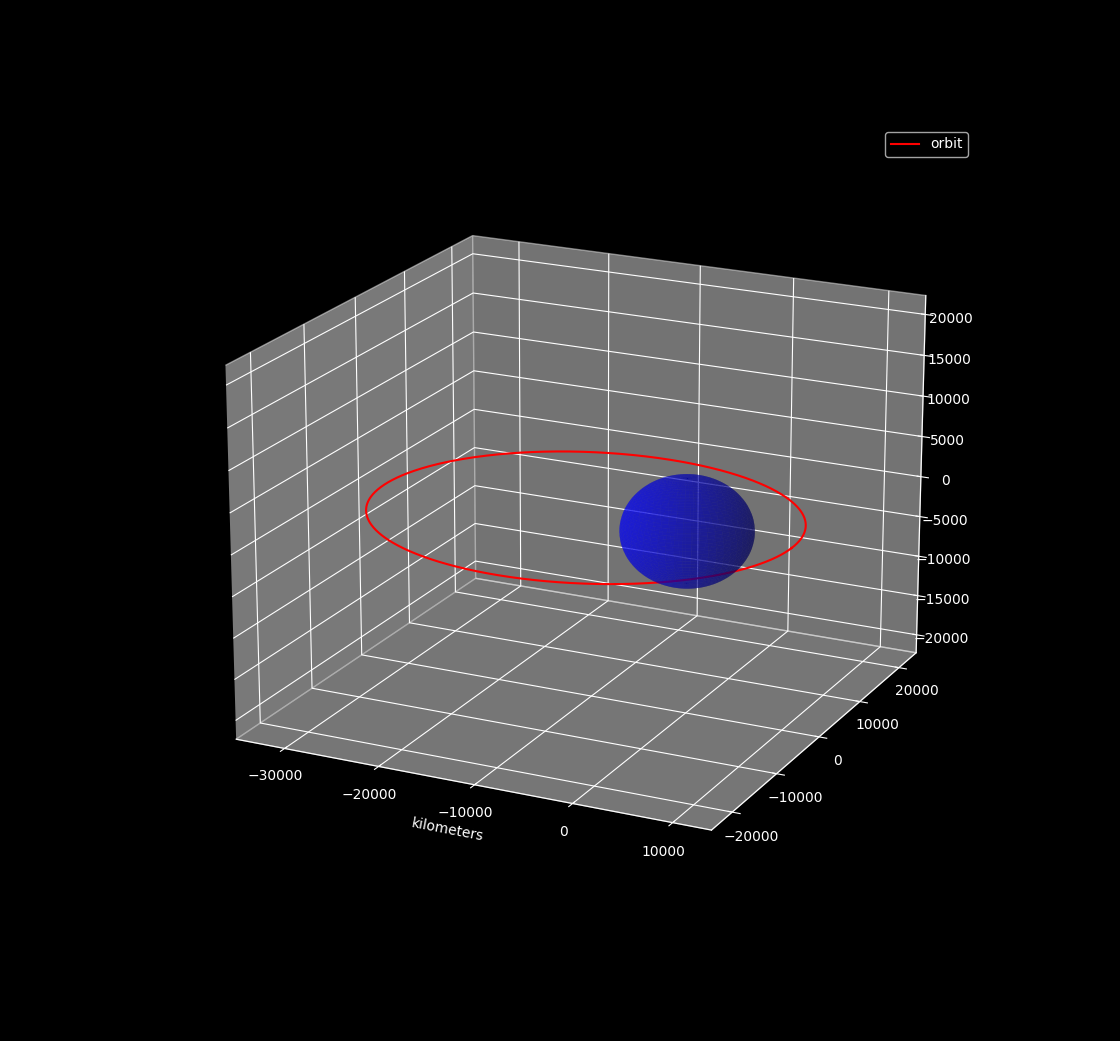
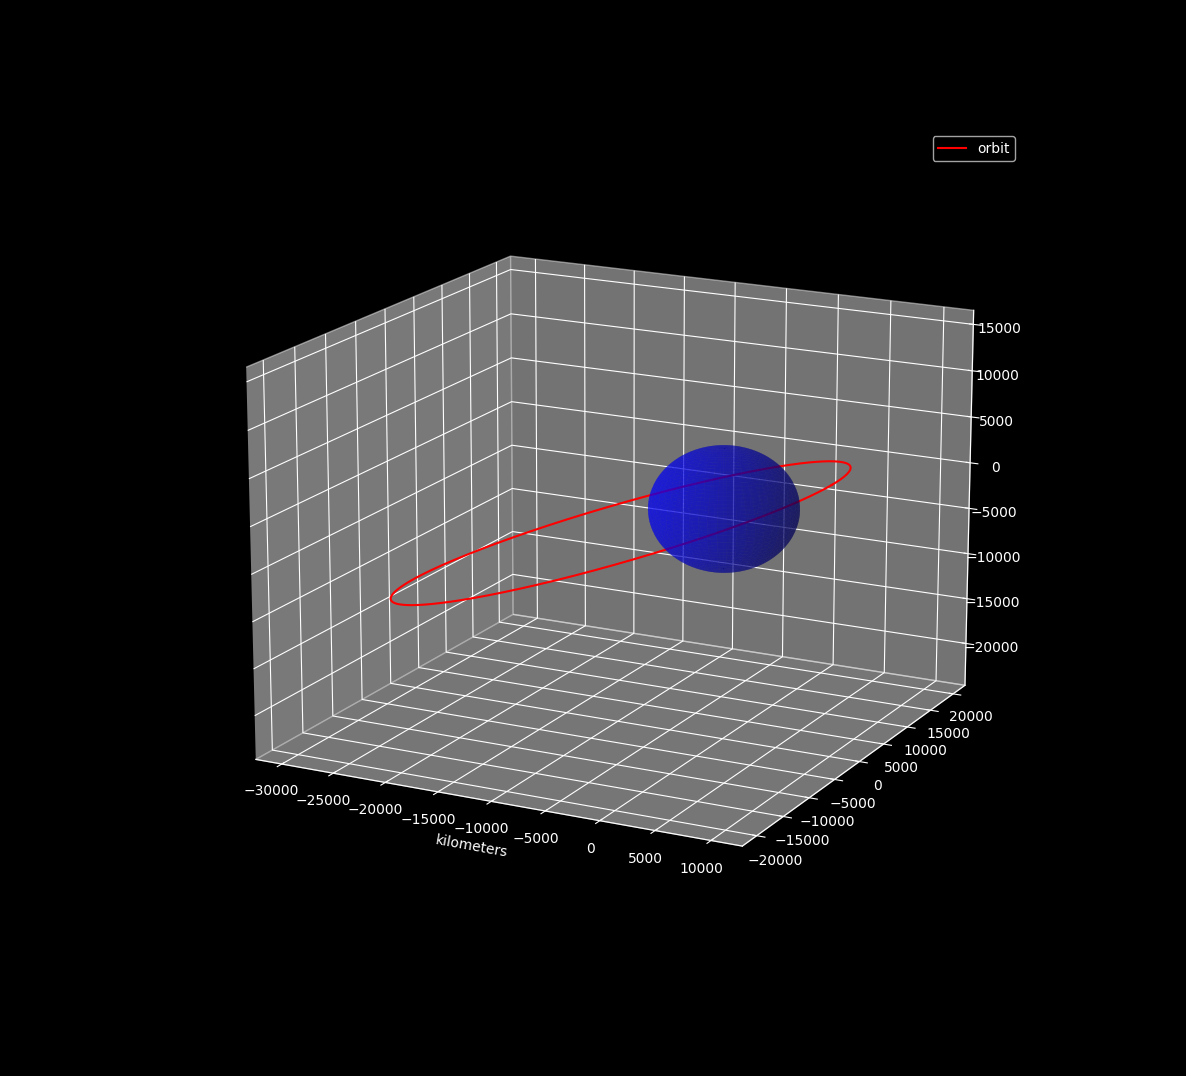
added arguments for inclination. need to add printout of orbital parameters to plot

Changed region(s): [[0.1875, 0.2152, 0.875, 0.83], [0.7812, 0.123, 0.875, 0.1537]]

diff --git a/astrodynamics.py b/astrodynamics.py
@@ -19,9 +19,10 @@ def orbit_eq(angular_momentum, eccentricity, theta, mu=398600):
     r = (angular_momentum**2/mu)/(1+eccentricity*np.cos(theta))
     return r
 
-def plot_orbit(h,e,mu=398600,planet_radius=6371):
+def plot_orbit(h,e,phi,mu=398600,planet_radius=6371):
     """
-    Make a three dimensional plot of the orbit trajectory given angular momentum h, eccentricity e, gravitational parameter mu, and planet radius
+    Make a three dimensional plot of the orbit trajectory given angular momentum h, eccentricity e, inclination phi in degrees, gravitational parameter mu, and planet radius
+    
     """
     plt.style.use('dark_background')
     fig = plt.figure()
@@ -29,10 +30,10 @@ def plot_orbit(h,e,mu=398600,planet_radius=6371):
 
     #make_planet(planet_radius,ax)
     x,y,z = generate_orbit(h,e,mu)
-    #add a function for RAAD
-    equal_axes(x,y,z,ax)
+    x_i,y_i,z_i = inclination(x,y,z,(-np.pi/180 * phi))
+    equal_axes(x_i,y_i,z_i,ax)
 
-    ax.plot(x,y,z,label = "orbit",color = 'r')
+    ax.plot(x_i,y_i,z_i,label = "orbit",color = 'r')
     make_planet(planet_radius,ax)
     plt.xlabel('kilometers')       
     ax.legend()
@@ -76,3 +77,15 @@ def equal_axes(x,y,z,ax):
     for xb, yb, zb in zip(Xb, Yb, Zb):
         ax.plot([xb], [yb], [zb], 'w')
     plt.grid()
+
+def inclination(x,y,z,phi):
+    x_i = []
+    y_i = []
+    z_i = []
+
+    for a,b,c in zip(x,y,z):
+        x_i.append( a*np.cos(phi) + 0*b + c*np.sin(phi))
+        y_i.append( a*0 + b*1 + c*0)
+        z_i.append( -a*np.sin(phi) + 0*b + c*np.cos(phi))
+    
+    return x_i,y_i,z_i

diff --git a/demo.py b/demo.py
@@ -8,6 +8,4 @@ apogee = astro.orbit_eq(angular_momentum,eccentricity,3.14159)
 print(apogee)
 
 #make a graphic of the orbit
-astro.plot_orbit(angular_momentum,eccentricity)
-astro.plot_orbit()
-
+astro.plot_orbit(angular_momentum,eccentricity,22.5)
